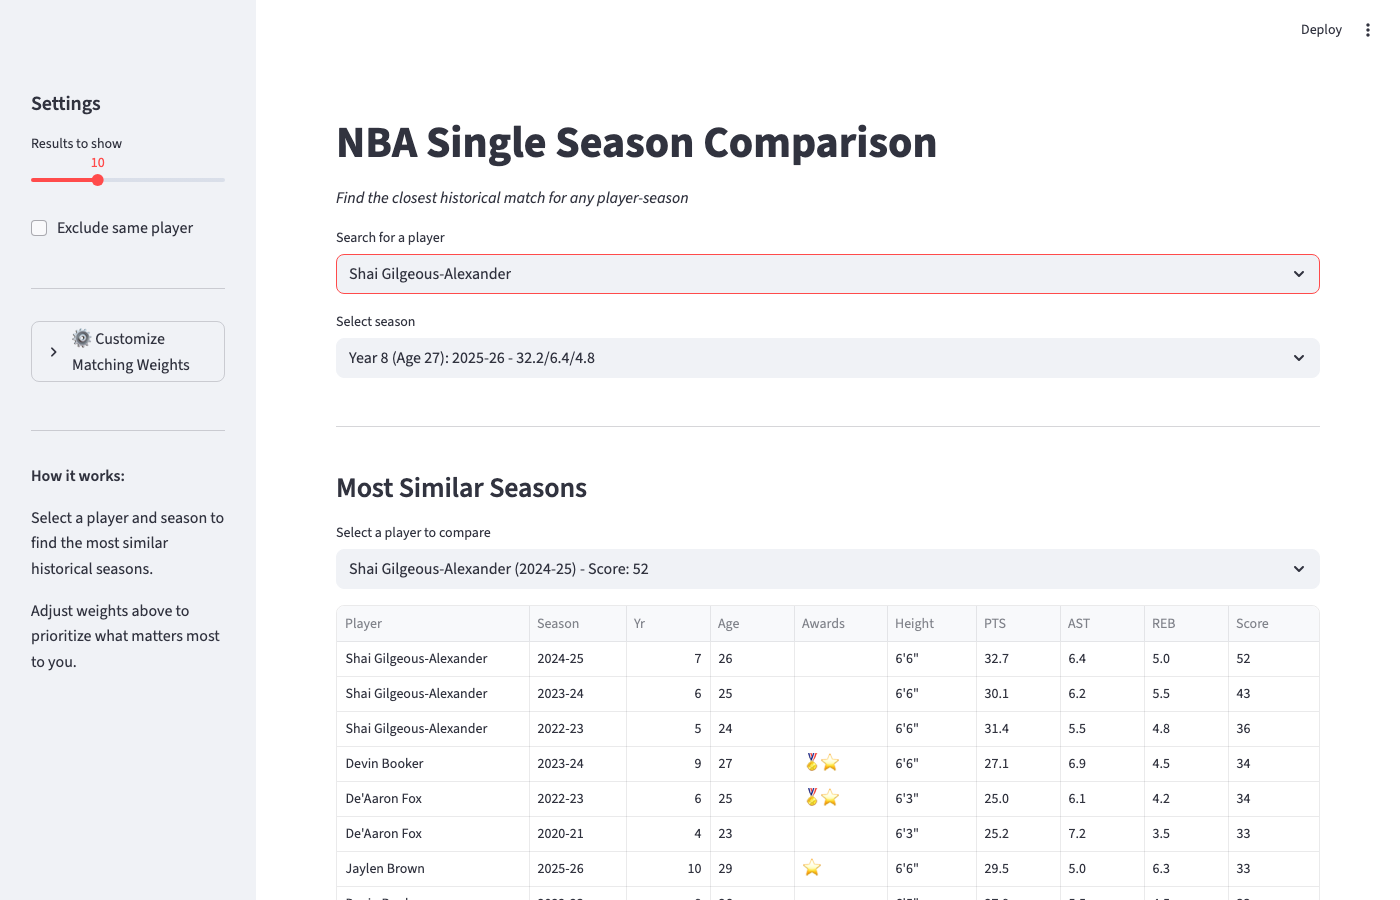
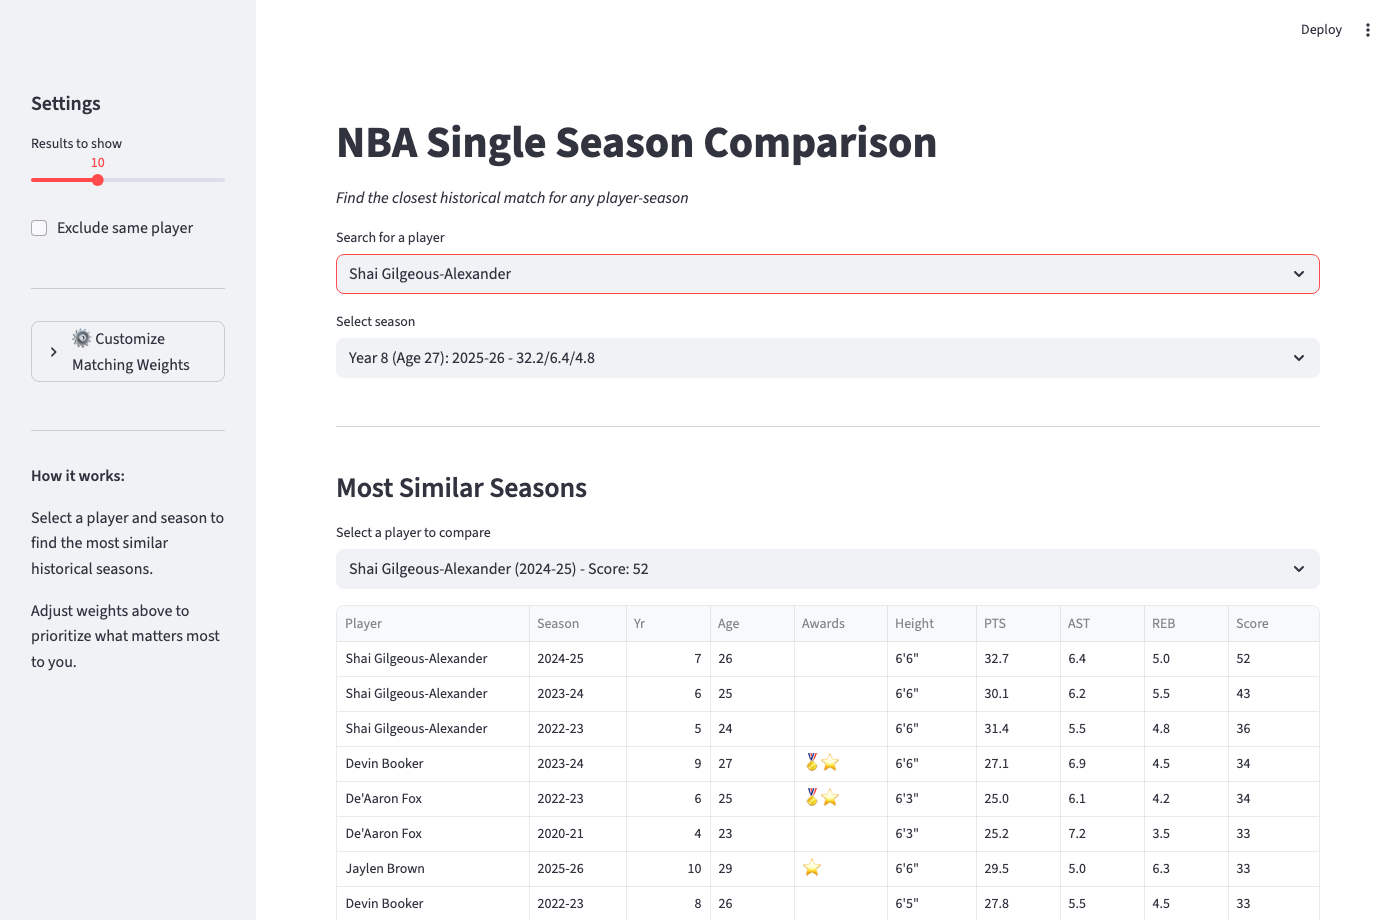
Fix screenshots: proper crops of results table and comparison charts

diff --git a/README.md b/README.md
@@ -12,7 +12,7 @@ Built on 11,400+ player-seasons from 2,350+ players spanning 2003-04 through 202
 
 **Drill into any match with similarity breakdowns and radar profile overlays:**
 
-![Similarity bars and radar chart comparison](screenshots/screenshot_charts.png)
+![Similarity bars and radar chart comparison](screenshots/screenshot_comparison.png)
 
 ## Features
 
